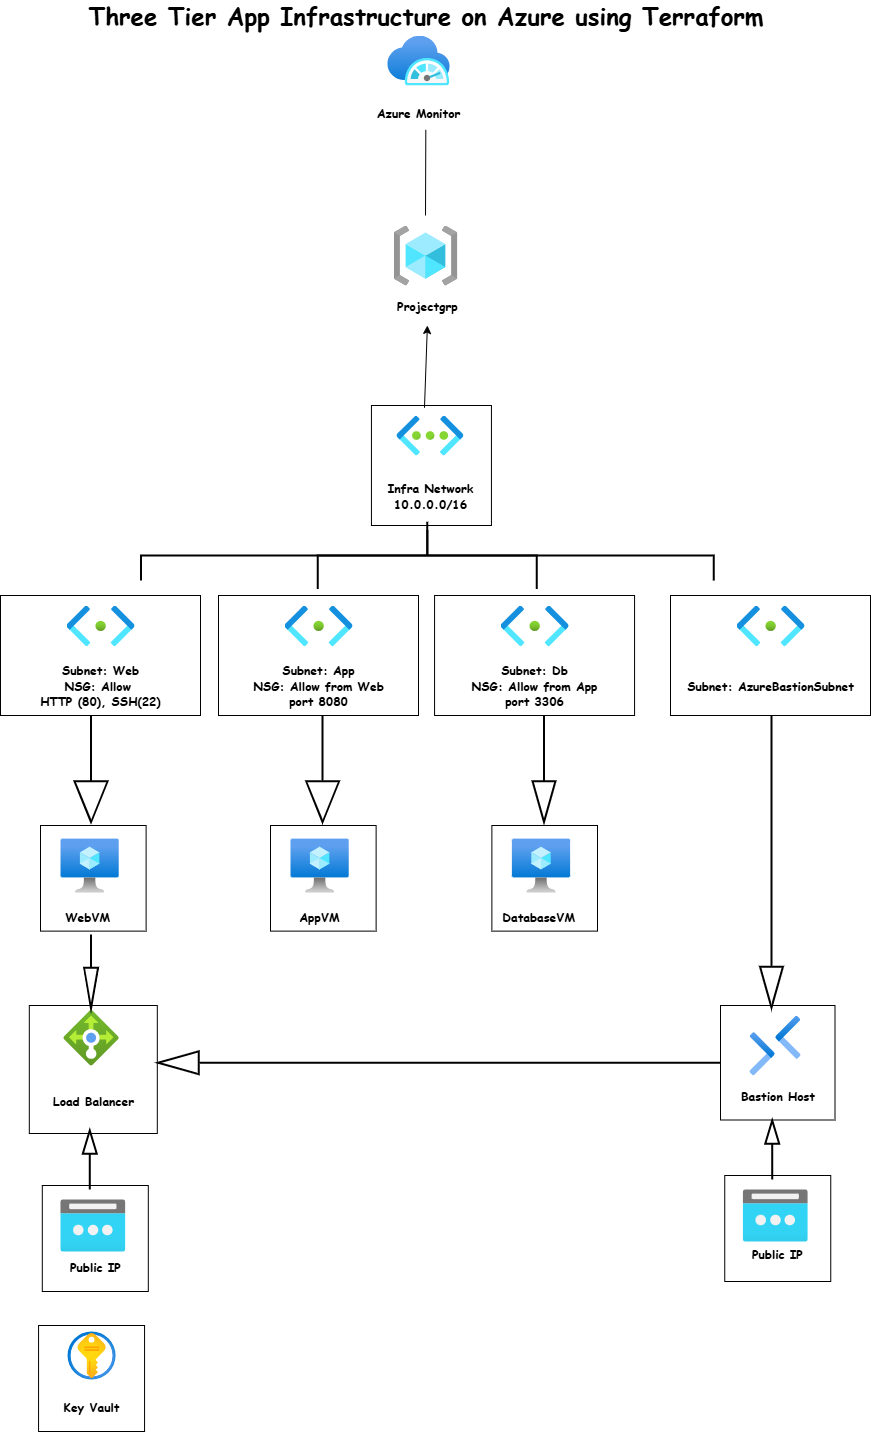
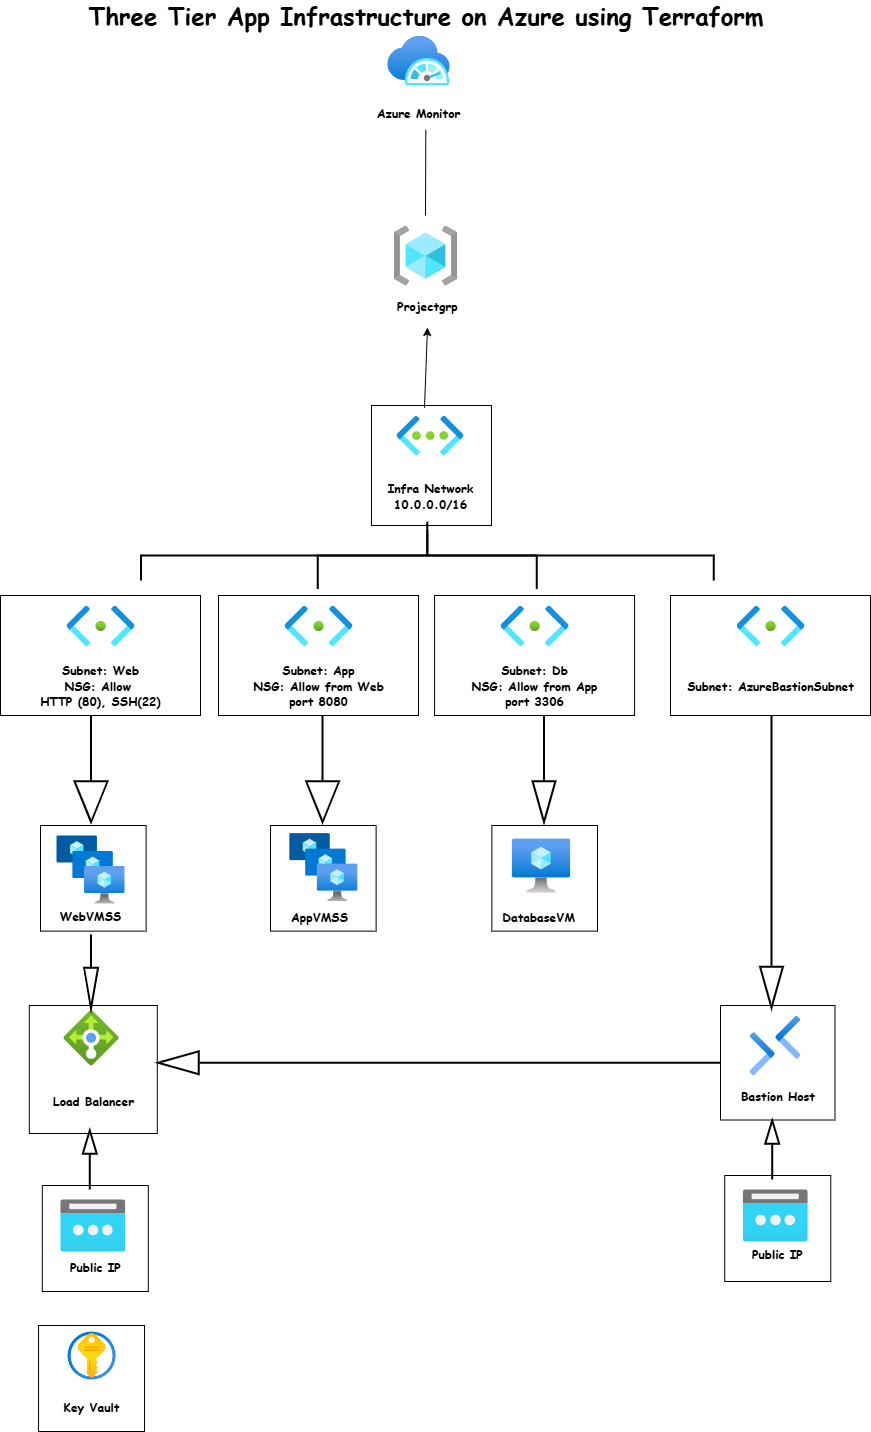
Feat: Created a load balancer resource, modified the diagram

Changed region(s): [[0.062, 0.5838, 0.155, 0.6453], [0.31, 0.5838, 0.403, 0.6453]]

diff --git a/README.md b/README.md
@@ -7,6 +7,8 @@ So far, the following has been completed:
 - Created a virtual network (VNet)
 - Created three subnets: web, app, and db
 - Created and attached Network Security Groups (NSGs) to each subnet
+- Created a Bastion Host
+- Created public and internal load balancers
 - Added an architecture diagram (`3-tier.png`) showing the full layout
 
 More components (e.g. Bastion, compute, load balancer) will be added in future commits.
